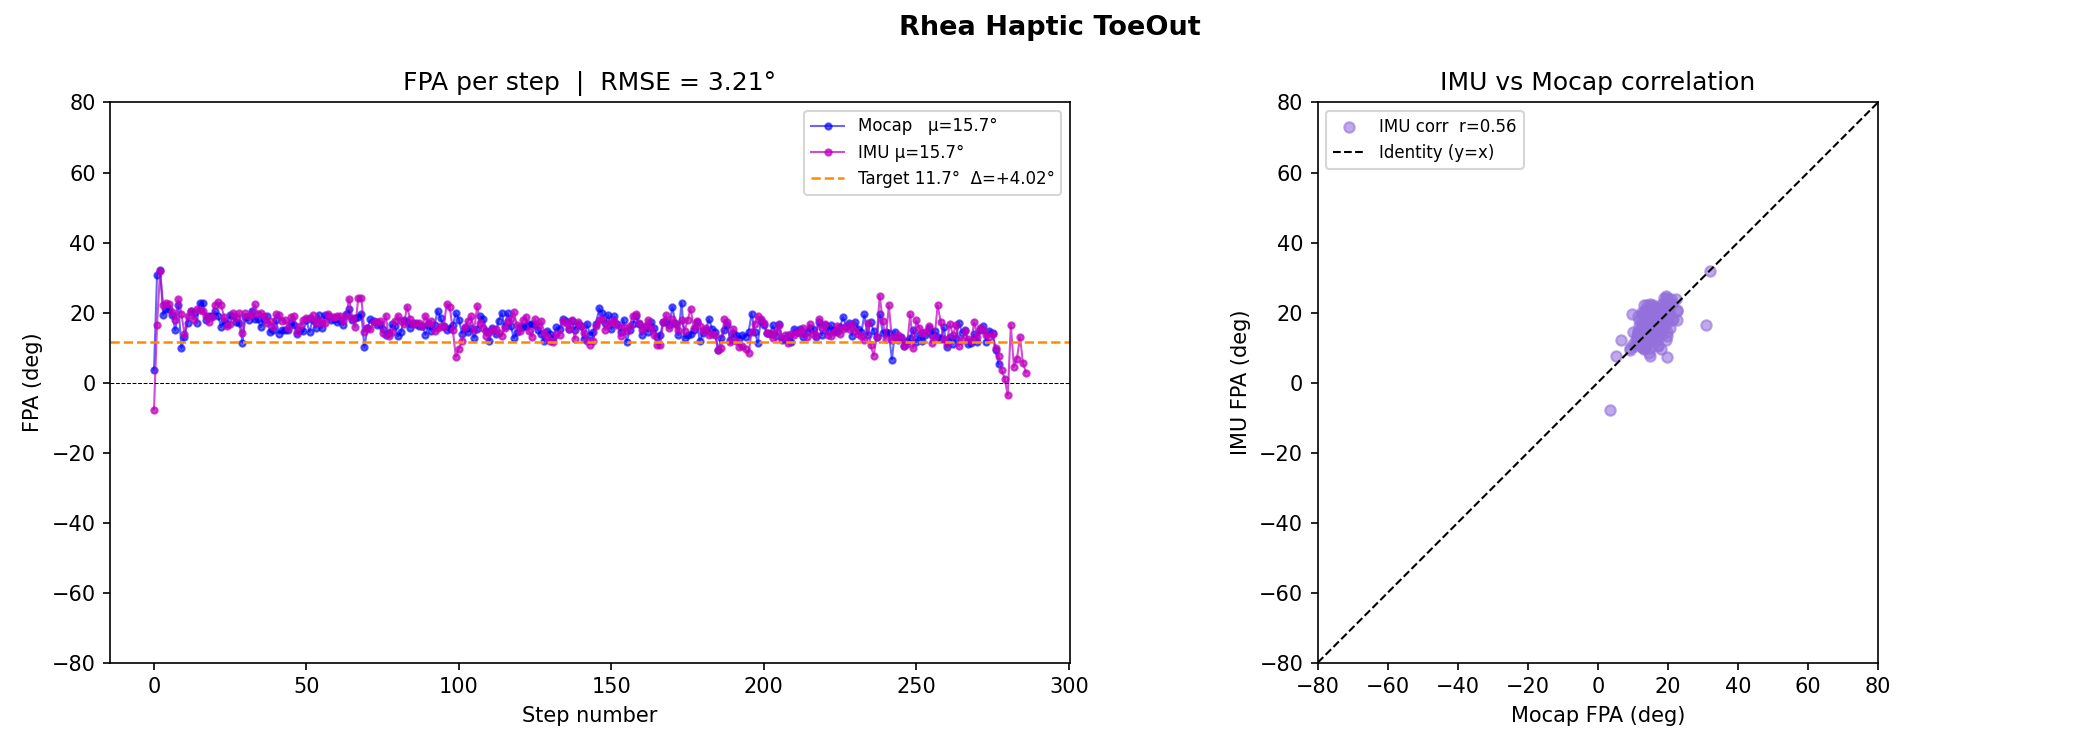
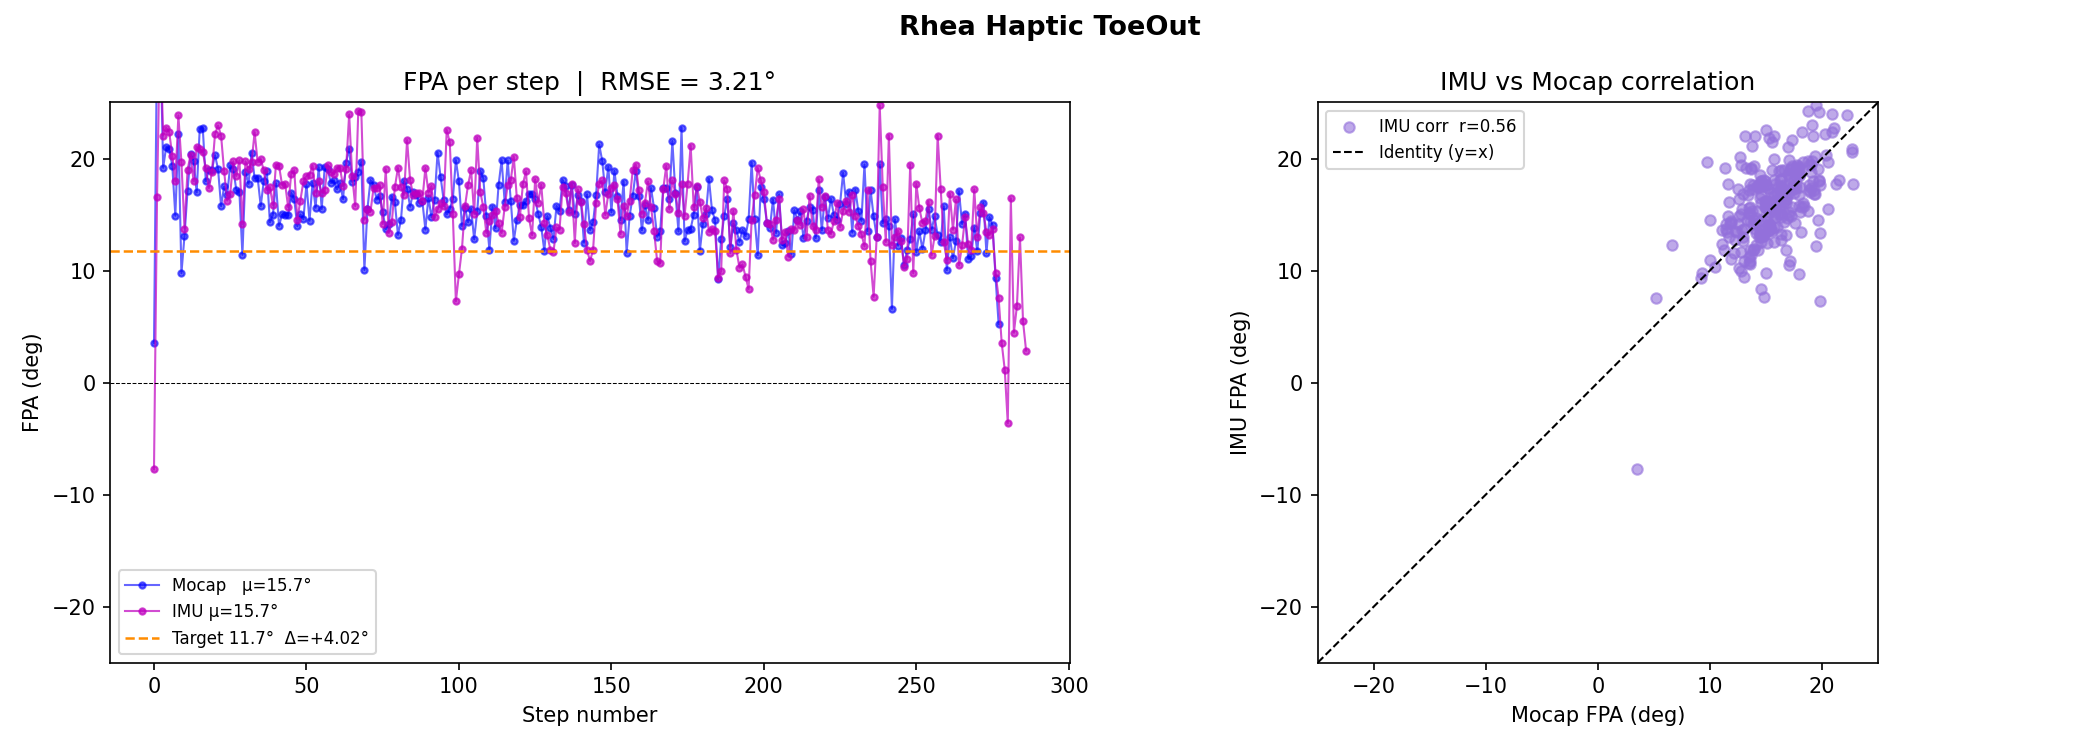
new version of graphs

diff --git a/Data_Processing/FPA_training.py b/Data_Processing/FPA_training.py
@@ -82,7 +82,7 @@ for label, mocap_file, imu_file in TRIALS:
     imu_corr       = imu_device_fpa - offset
     trial_data.append((label, fpa_mocap_r, imu_device_fpa, imu_corr))
 
-global_ylim = [-80, 80]
+global_ylim = [-25, 25]
 
 # ============================================================
 # PASS 2 — plot each trial with shared y axis
